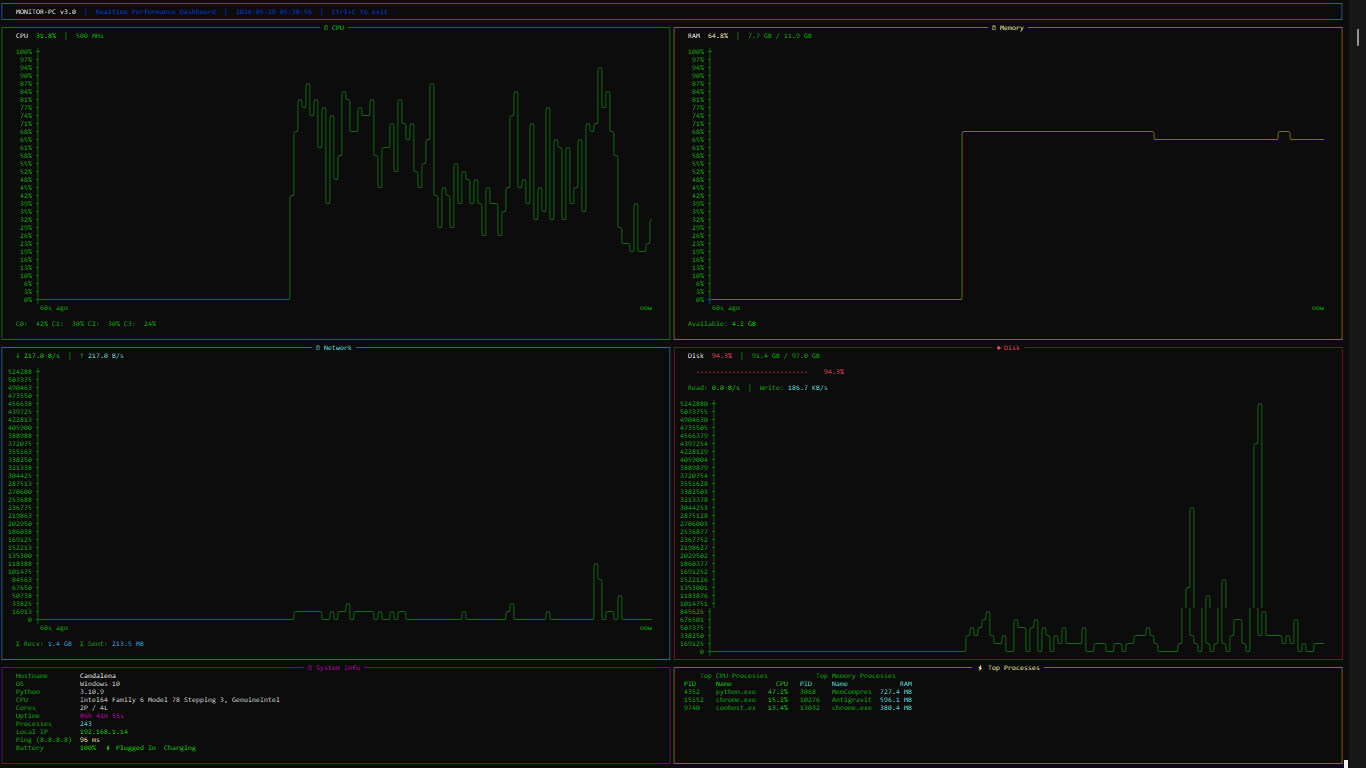
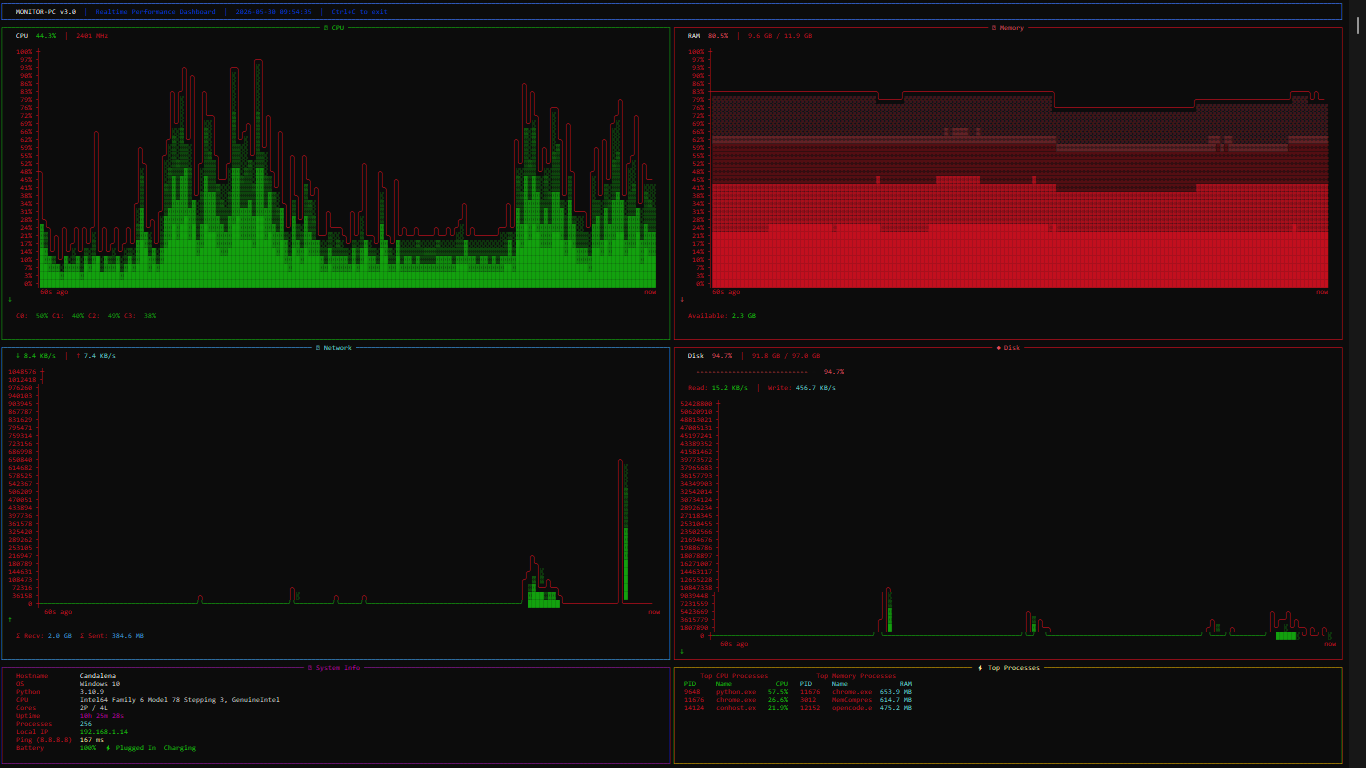
update

diff --git a/monitor_pc.py b/monitor_pc.py
@@ -5,10 +5,6 @@
 ║     Realtime PC Dashboard — Task Manager Style Graphs       ║
 ╚══════════════════════════════════════════════════════════════╝
 
-Graph smooth ala Task Manager menggunakan asciichartpy.
-Kurva melengkung (╭─╮ ╰─╯) — tidak kotak-kotak, tidak titik-titik.
-Warna otomatis: hijau → kuning → merah sesuai beban.
-
 Usage:
     python monitor_pc.py
 
@@ -214,6 +210,106 @@ def auto_scale(max_val: float) -> float:
 
 
 
+def _fill_char_for_depth(depth: float) -> str:
+    """depth 0=just below line, 1=bottom. Denser toward bottom."""
+    if depth < 0.20:
+        return "░"
+    elif depth < 0.45:
+        return "▒"
+    elif depth < 0.70:
+        return "▓"
+    else:
+        return "█"
+
+
+def _apply_fill_to_chart(
+    lines: list,
+    data: list,
+    y_prefix: int,
+    min_val: float,
+    max_val: float,
+    rich_color: str,
+) -> list:
+    """
+    Add a gradient fill STRICTLY below the graph line and STRICTLY above the
+    bottom baseline row (the row that shows the 0% / min label).
+
+    Uses the original numeric data to compute per-column fill thresholds via
+    linear interpolation — no ASCII glyph parsing needed.
+    """
+    RESET  = "\x1b[0m"
+    BOLD   = "\x1b[1m"
+    DIM    = "\x1b[2m"
+    color_ansi = {"green": "\x1b[32m", "yellow": "\x1b[33m", "red": "\x1b[31m"}
+    ansi_clr   = color_ansi.get(rich_color, "\x1b[32m")
+
+    n_rows = len(lines)
+    if n_rows < 2:
+        return lines
+
+    clean_lines = [_ANSI_RE.sub("", l) for l in lines]
+
+    n_cols_body = len(data)
+
+    span   = max_val - min_val if max_val != min_val else 1.0
+    n_data = max(len(data), 1)
+
+    
+    line_row_frac: list = []
+    for col in range(n_cols_body):
+        t   = col / max(n_cols_body - 1, 1)
+        di  = t * (n_data - 1)
+        lo  = int(di);  hi = min(lo + 1, n_data - 1)
+        val = data[lo] * (1.0 - (di - lo)) + data[hi] * (di - lo)
+        norm = max(0.0, min(1.0, (val - min_val) / span))
+        line_row_frac.append((1.0 - norm) * (n_rows - 1))
+
+
+    bottom_frac = float(n_rows - 1)
+
+    def _prefix_orig(orig: str, n_vis: int) -> str:
+        count = 0;  i = 0
+        while i < len(orig) and count < n_vis:
+            if orig[i] == "\x1b":
+                j = orig.find("m", i);  i = (j + 1) if j != -1 else len(orig)
+            else:
+                count += 1;  i += 1
+        return orig[:i]
+
+    new_lines = []
+    for row_idx, (orig, clean) in enumerate(zip(lines, clean_lines)):
+        prefix   = _prefix_orig(orig, y_prefix)
+        body     = clean[y_prefix:].ljust(n_cols_body)
+        new_body = ""
+
+        for col_offset, ch in enumerate(body):
+            if col_offset >= len(line_row_frac):
+                new_body += ch
+                continue
+
+            line_frac  = line_row_frac[col_offset] 
+            fill_start = line_frac + 0.5              
+            fill_end   = bottom_frac                 
+
+            if fill_start <= row_idx <= fill_end:
+                AXIS_CHARS = set("┼┤─╮╭╯╰│")
+                if ch in AXIS_CHARS:
+                    new_body += ch 
+                else:
+                    fill_height = max(fill_end - fill_start, 1.0)
+                    depth       = (row_idx - fill_start) / fill_height
+                    depth       = max(0.0, min(1.0, depth))
+                    fill_ch     = _fill_char_for_depth(depth)
+                    shade       = BOLD if depth < 0.25 else (DIM if depth > 0.70 else "")
+                    new_body   += f"{shade}{ansi_clr}{fill_ch}{RESET}"
+            else:
+                new_body += ch
+
+        new_lines.append(prefix + new_body)
+
+    return new_lines
+
+
 def build_chart(
     history,
     current_val: float = 0.0,
@@ -230,6 +326,7 @@ def build_chart(
 
     pct_now = (current_val / max_val * 100) if is_speed else current_val
     color   = get_acp_color(pct_now)
+    rich_color = get_rich_color(pct_now)
 
     if is_speed:
         label_fmt = "{:6.0f}"
@@ -247,18 +344,34 @@ def build_chart(
     raw   = acp.plot(data, cfg)
     lines = raw.rstrip("\n").split("\n")
 
-    visual_widths  = [len(_ANSI_RE.sub("", l)) for l in lines]
-    max_visual_w   = max(visual_widths)
+    y_prefix = 8  
+    if lines:
+        clean_first = _ANSI_RE.sub("", lines[0])
+        for tick in ("┼", "┤"):
+            idx = clean_first.find(tick)
+            if idx != -1:
+                y_prefix = idx + 1
+                break
 
-    short_w_list = [w for w in visual_widths if w < 20]
-    y_prefix     = short_w_list[0] if short_w_list else 8
+    lines = _apply_fill_to_chart(lines, data, y_prefix, 0.0, max_val, rich_color)
 
-    body_w = max_visual_w - y_prefix
+    body_w = len(data)
     gap    = max(0, body_w - 10)
     xaxis  = " " * y_prefix + "60s ago" + " " * gap + "now"
 
-    raw += "\n" + xaxis
-    return Text.from_ansi(raw)
+    raw = "\n".join(lines) + "\n" + xaxis
+    result = Text.from_ansi(raw)
+
+    trend = "→"
+    if len(data) >= 2:
+        if data[-1] > data[-2]:
+            trend = "↑"
+        elif data[-1] < data[-2]:
+            trend = "↓"
+
+    result.append("  ")
+    result.append(trend, style=f"bold {rich_color}")
+    return result
 
 
 
